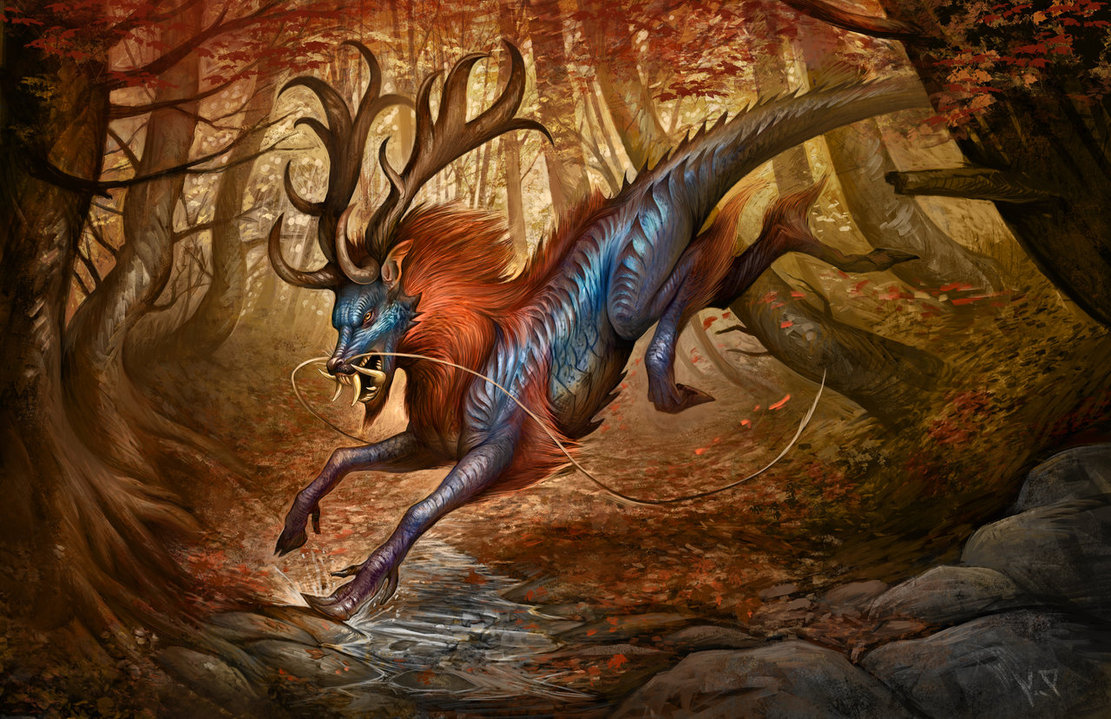
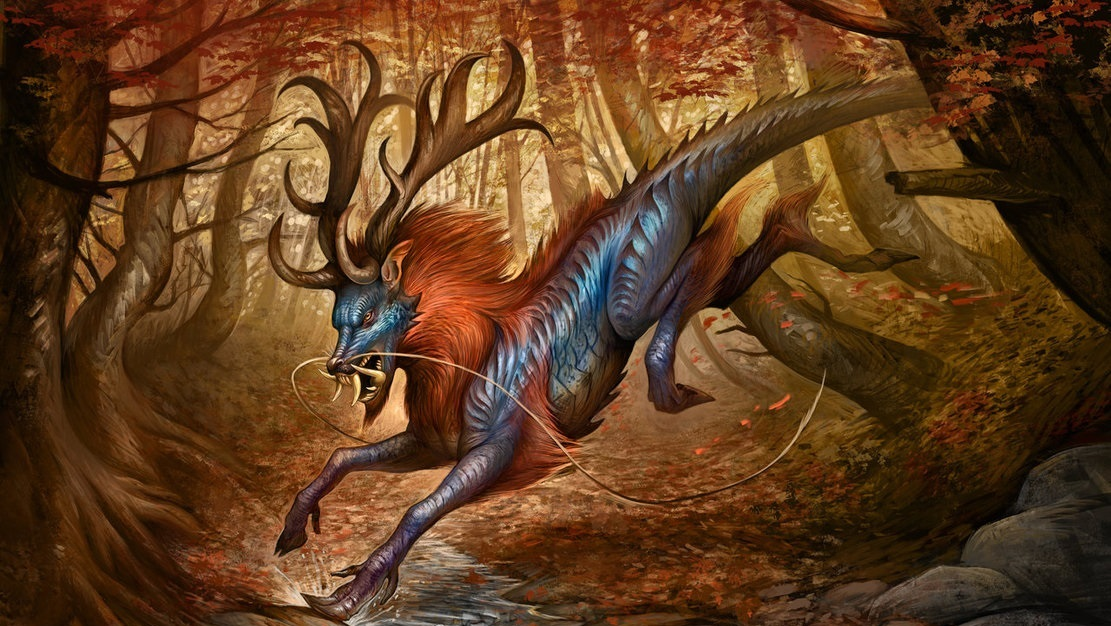
modification de la taille des images du carousel avec css

diff --git a/Index.html b/Index.html
@@ -10,6 +10,9 @@
 	
 	<!-- Personnal CSS -->
 	<link rel="stylesheet" href="style.css">
+
+	<!-- CSS Carousel -->
+	<link rel="stylesheet" href="style_carousel.css">
 	
 	<!-- Personnal Meta Tags -->
 	<meta name="description" content="Have you ever see a dragon or a Doxy? No? Us, Yes! So you're in the right place to find the answers to all your question."/>

diff --git a/style_carousel.css b/style_carousel.css
@@ -1,0 +1,4 @@
+img{
+    height: 600px;
+    width: auto;
+}
